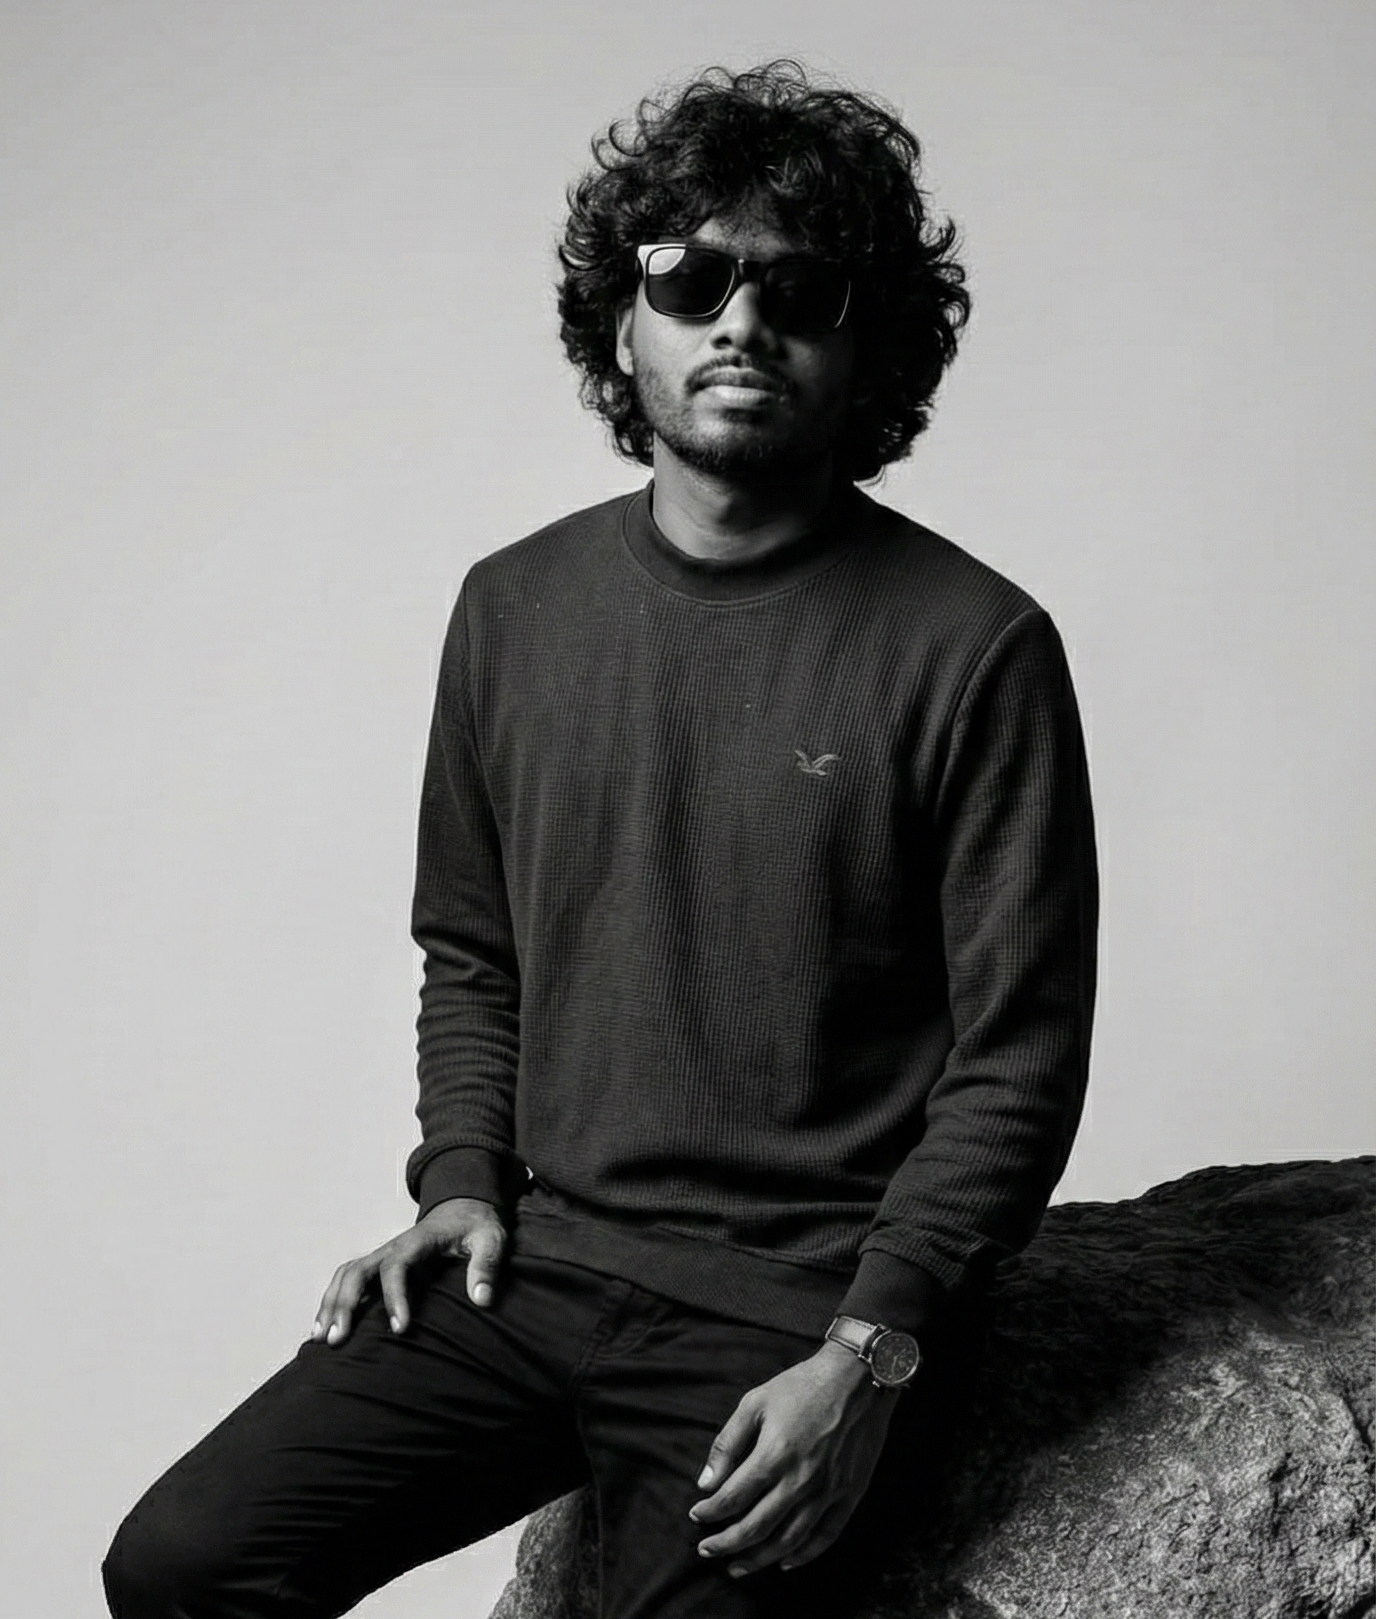
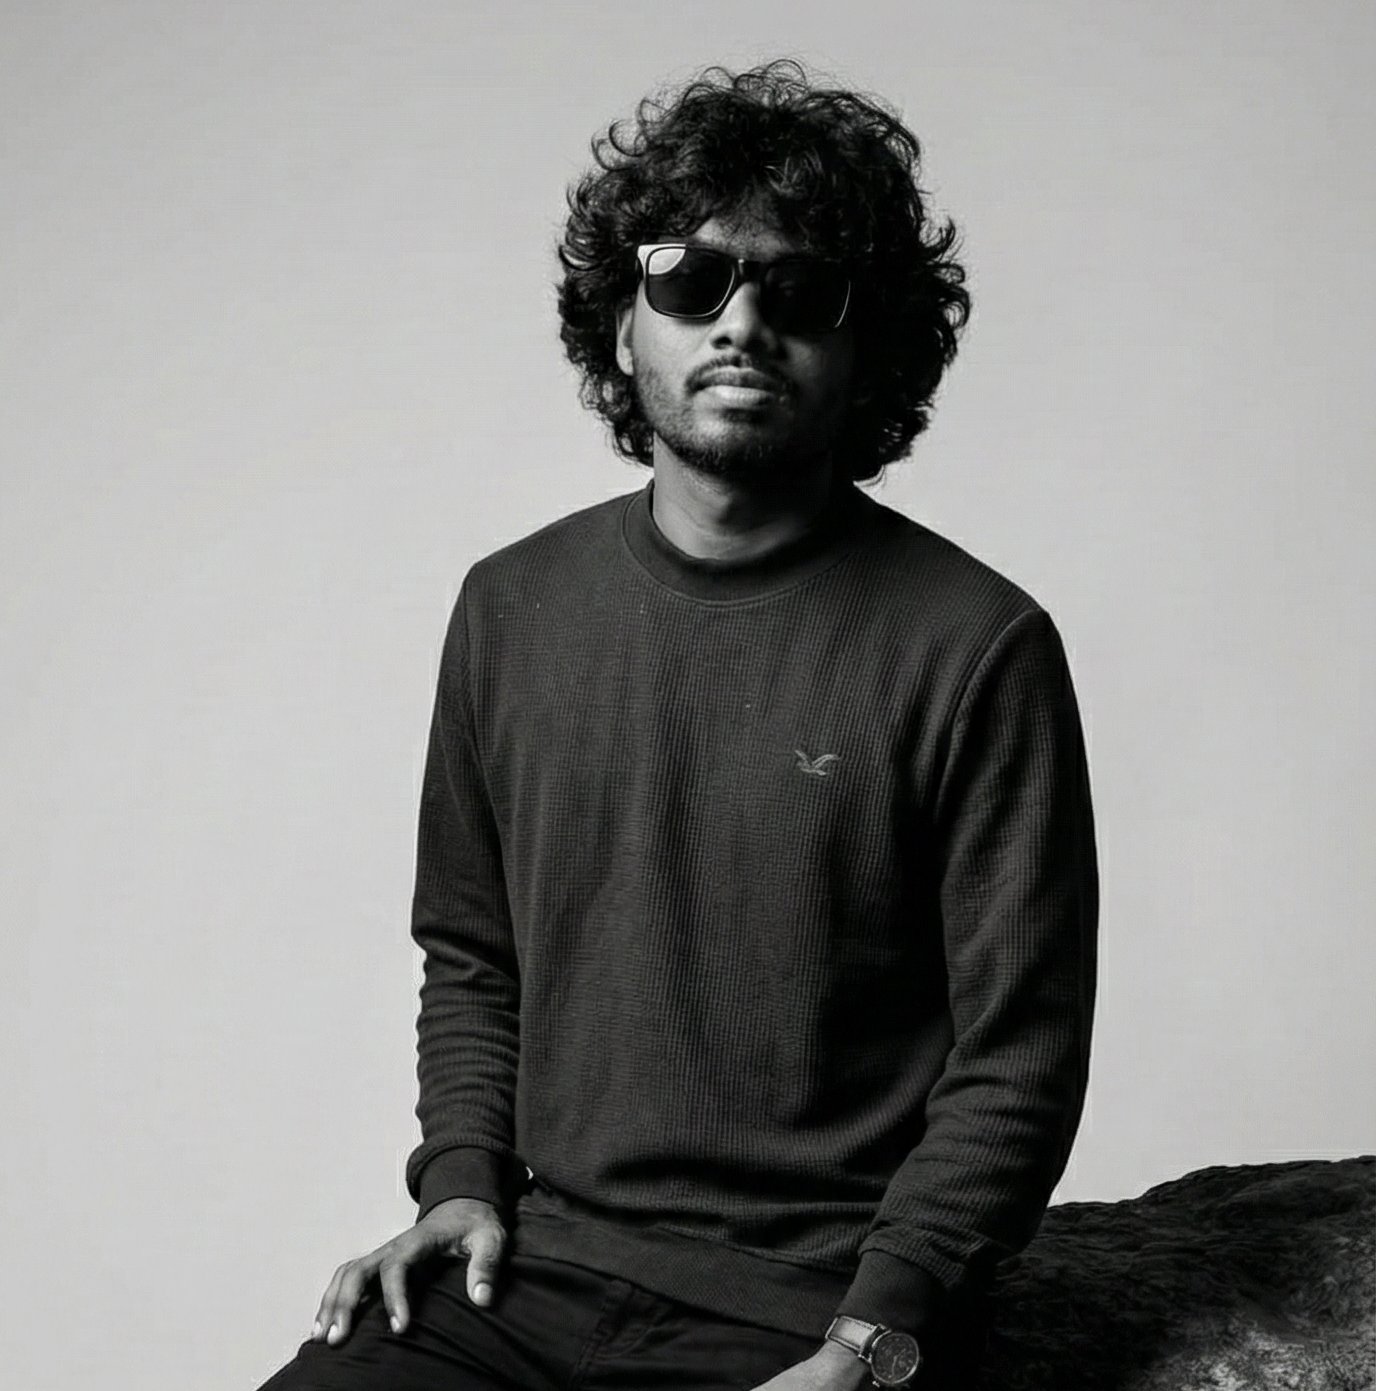
Add Spring Boot and PostgreSQL skill badges; update profile image size

Changed region(s): [[0.0625, 0.0309, 1.0, 1.0]]

diff --git a/index.html b/index.html
@@ -126,6 +126,9 @@
                         <div class="skill-badge">
                             <img src="https://img.shields.io/badge/TypeScript-3178C6?style=for-the-badge&logo=typescript&logoColor=white" alt="TypeScript">
                         </div>
+                        <div class="skill-badge">
+                            <img src="https://img.shields.io/badge/Spring%20Boot-6DB33F?style=for-the-badge&logo=springboot&logoColor=white" alt="Spring Boot">
+                        </div>
                     </div>
                 </div>
                 <div class="skill-category">
@@ -136,6 +139,9 @@
                         </div>
                         <div class="skill-badge">
                             <img src="https://img.shields.io/badge/MongoDB-4EA94B?style=for-the-badge&logo=mongodb&logoColor=white" alt="MongoDB">
+                        </div>
+                        <div class="skill-badge">
+                            <img src="https://img.shields.io/badge/PostgreSQL-4169E1?style=for-the-badge&logo=postgresql&logoColor=white" alt="PostgreSQL">
                         </div>
                     </div>
                 </div>

diff --git a/styles.css b/styles.css
@@ -937,8 +937,8 @@ footer {
     }
     
     .home-img img {
-        width: 15rem;
-        height: 15rem;
+        width: 25rem;
+        height: 25rem;
         object-fit: cover;
         border-radius: 50%;
         margin: 0 auto;
